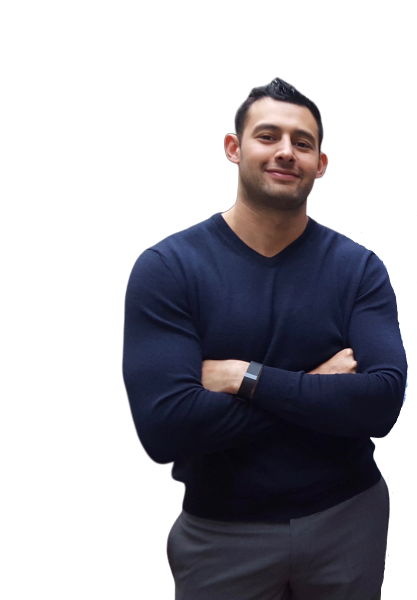
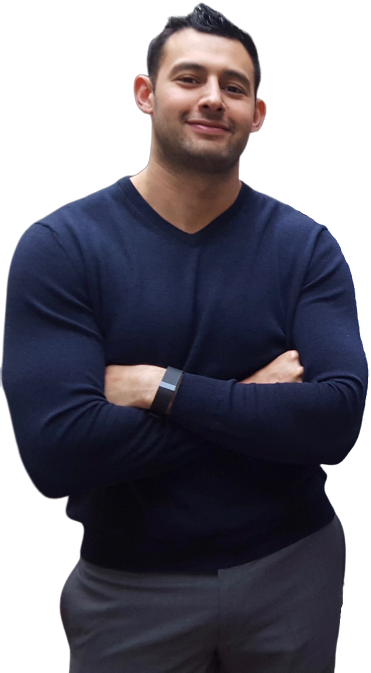
updated about me page

diff --git a/src/components/about/about.js b/src/components/about/about.js
@@ -9,7 +9,7 @@ class about extends Component {
         return(
             <div>
                 <div className="container2">
-                    <div className="box2 about">
+                    <div className="box2">
                         <h1 className="aboutTitle">About Me</h1>
                         <h2 className="aboutSubTitle">I'm a Front-End developer based in Los Angeles, California</h2>
                         <span className="aboutSpan">I'm an energetic and ambitious developer with a focus on fun, attractive, user-friendly web applications. 
@@ -17,27 +17,13 @@ class about extends Component {
                             through implementation and exploration.
                         </span>
                     </div>
-                    <div className="box2">
+                    <div className="box2 boxImage">
                         <img className="me" src={Me} alt="Me"/>
                     </div>
                 </div>
-
-                {/* <section class="hero2">
-                    <div class="hero-inner2">
-                        <div className="aboutBox">
-                            <h1 className="aboutTitle">About Me</h1>
-                            <h2>I'm a Front-End developer based in Los Angeles, California</h2>
-                            <span className="aboutSpan">I'm an energetic and ambitious developer with a focus on fun, attractive, user-friendly web applications. 
-                                I thrive on challenges to enhance my own creativity, critical thinking and understanding of development 
-                                through implementation and exploration.
-                            </span>
-                        </div>
-                    </div>
-                </section>
                 <main className="main">
             
                 </main>
-                <img className="me" src={Me} alt="Me"/> */}
             </div>
         )
     }

diff --git a/src/components/about/about.css b/src/components/about/about.css
@@ -1,27 +1,15 @@
-/* .hero2 {
-    width: 100vw;
-    height: 100vh;
-    align-items: center;
-    font-family: 'Dosis', sans-serif;
-    box-shadow: 0 4px 8px 0 rgba(0,0,0,0.2);
-} */
-
-/* .hero2 h2 {
-    color: #666666;
-    font-size: 23px;
-    margin-top: -20px;
-} */
-
 .aboutTitle {
     font-size: 55px;
     margin-bottom: 0.5em;
-    color: rgb(229, 49, 0);
+    color: #e53100;
+    font-weight: bold;
 }
 
 .aboutSubTitle {
     color: #666666;
-    font-size: 23px;
+    font-size: 25px;
     margin-top: -25px;
+    width: 90%;
 }
 
 .aboutSpan {
@@ -33,9 +21,11 @@
 }
 
 .me {
-    width: 350px;
-    margin-left: -80px;
-    margin-top: -10px;
+    width: 16em;
+    margin-left: auto;
+    margin-right: auto;
+    display: block;
+    border-radius: 130px;  
 }
 
 .container2 {
@@ -47,9 +37,8 @@
     flex-flow: wrap;
     margin-top: 7em;
     margin-bottom: 5em;
-    margin-left: 1em;
-    margin-right: 1em;
     font-family: 'Dosis', sans-serif;
+    box-shadow: 0 4px 8px 0 rgba(0,0,0,0.2);
 }
 
 .box2 {
@@ -60,14 +49,24 @@
     box-sizing: border-box;
 }
 
+
+
 @media screen and (max-width:1200px){
     .box2{
         width: 40%;
+    }
+    .me{
+        margin-left: auto;
+        margin-right: auto;
     }
 }
 
 @media screen and (max-width: 600px){
     .box2{
         width: 80%;
+    }
+    .me{
+        margin-left: auto;
+        margin-right: auto;
     }
 }

diff --git a/src/components/landingpage/landingpage.css b/src/components/landingpage/landingpage.css
@@ -109,7 +109,6 @@ h3:before {
     justify-content: space-around;
     flex-flow: wrap;
     margin-top: 5em;
-    margin-bottom: 5em;
 }
 
 .box {
